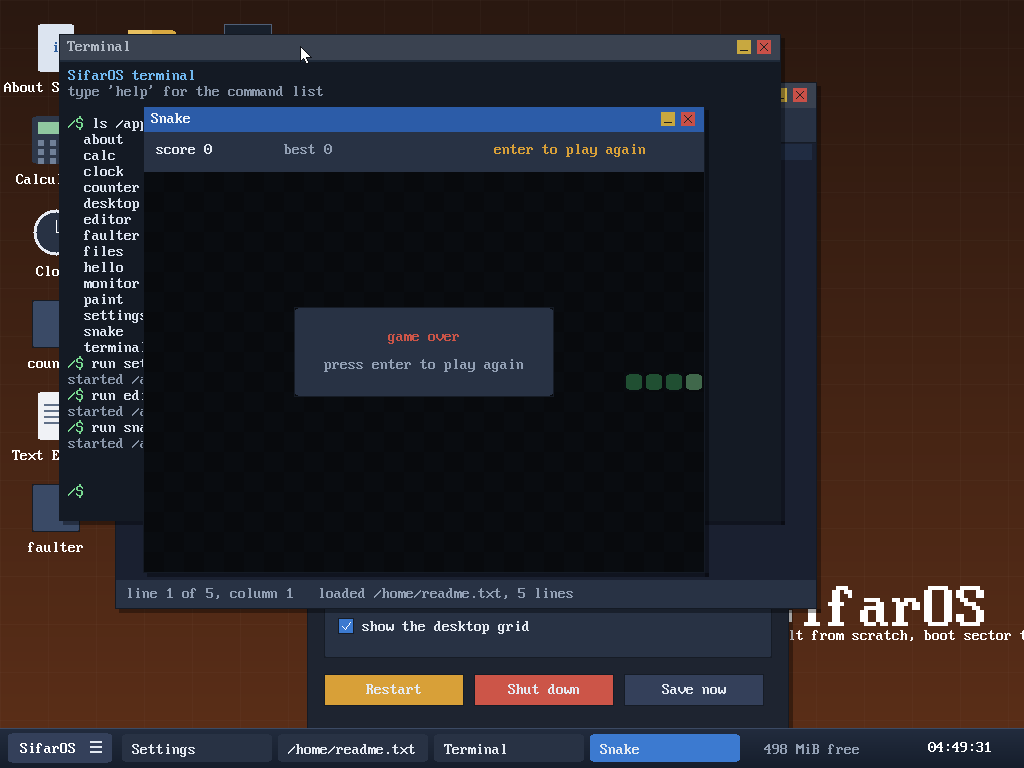
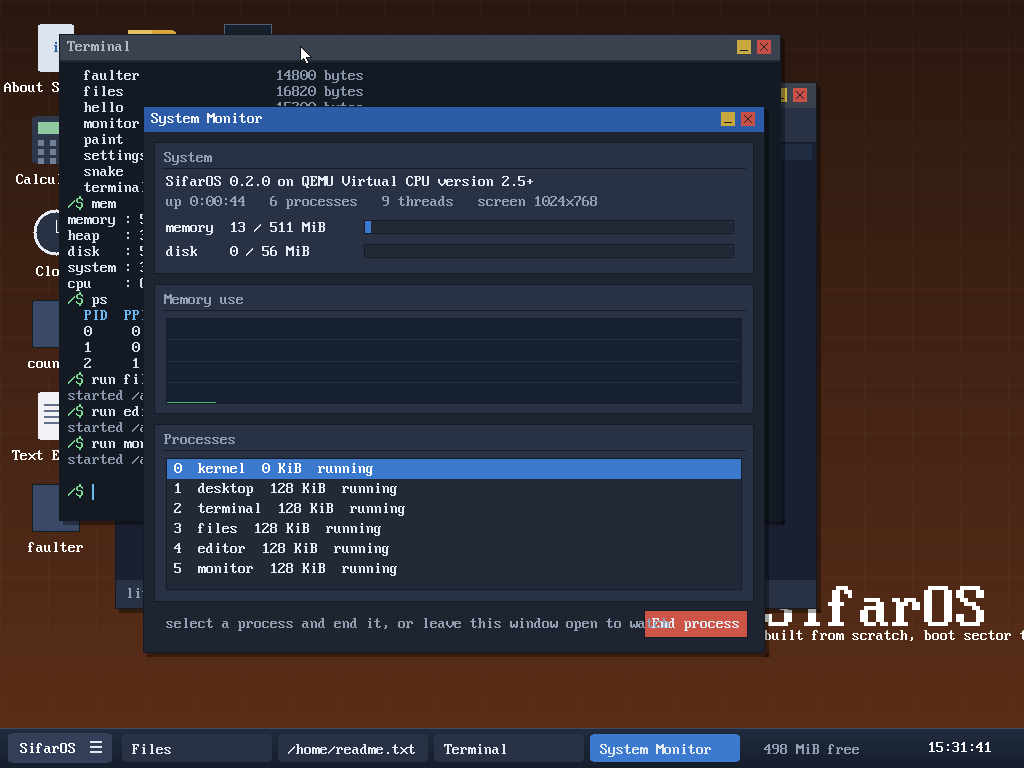
Give the keyboard to the window system once the desktop starts
Keystrokes were reaching the focused window and the kernel's serial shell
at the same time, so typing in the graphical terminal also ran commands in
the debug console and its replies turned up in the kernel log.

The physical keyboard now belongs to whichever window has focus; the
kernel console carries on over the serial line, which is what it is for.

Claude-Session: https://claude.ai/code/session_011zPDxBhVDMZJypqfEhzMs8

diff --git a/kernel/dev/console.c b/kernel/dev/console.c
@@ -20,6 +20,7 @@ static uint32_t klog_head;          /* total bytes ever written */
 static int      have_serial;
 static int      have_vga_text;
 static int      screen_enabled = 1;
+static int      keyboard_enabled = 1;
 
 static void klog_putc(char c)
 {
@@ -64,6 +65,16 @@ void console_set_screen_output(int enabled)
     screen_enabled = enabled;
     if (!enabled)
         fbcon_disable();
+}
+
+/*
+ * Once the desktop owns the screen, the physical keyboard belongs to whichever
+ * window has focus.  The kernel console keeps working over the serial line,
+ * which is what it is for.
+ */
+void console_set_keyboard_input(int enabled)
+{
+    keyboard_enabled = enabled;
 }
 
 void console_putc(char c)
@@ -132,10 +143,13 @@ static int decode_serial_escape(void)
 
 int console_trygetc(void)
 {
-    int c = keyboard_trygetc();
+    int c = -1;
 
-    if (c >= 0)
-        return c;
+    if (keyboard_enabled) {
+        c = keyboard_trygetc();
+        if (c >= 0)
+            return c;
+    }
 
     c = serial_poll();
     if (c < 0)

diff --git a/kernel/gui/wm.c b/kernel/gui/wm.c
@@ -923,6 +923,9 @@ void wm_start(void)
 {
     if (!initialised)
         return;
-    console_set_screen_output(0);       /* the desktop owns the screen now */
+    /* The desktop owns the screen and the keyboard from here; the kernel
+       console carries on over the serial line. */
+    console_set_screen_output(0);
+    console_set_keyboard_input(0);
     thread_create("compositor", compositor_thread, NULL);
 }

diff --git a/include/kernel/console.h b/include/kernel/console.h
@@ -39,6 +39,7 @@ int  serial_poll(void);          /* -1 when no byte is waiting */
 void console_init(int text_mode);
 void console_attach_screen(void);
 void console_set_screen_output(int enabled);
+void console_set_keyboard_input(int enabled);
 uint32_t console_log_read(char *buffer, uint32_t size);
 
 /* framebuffer text console */
